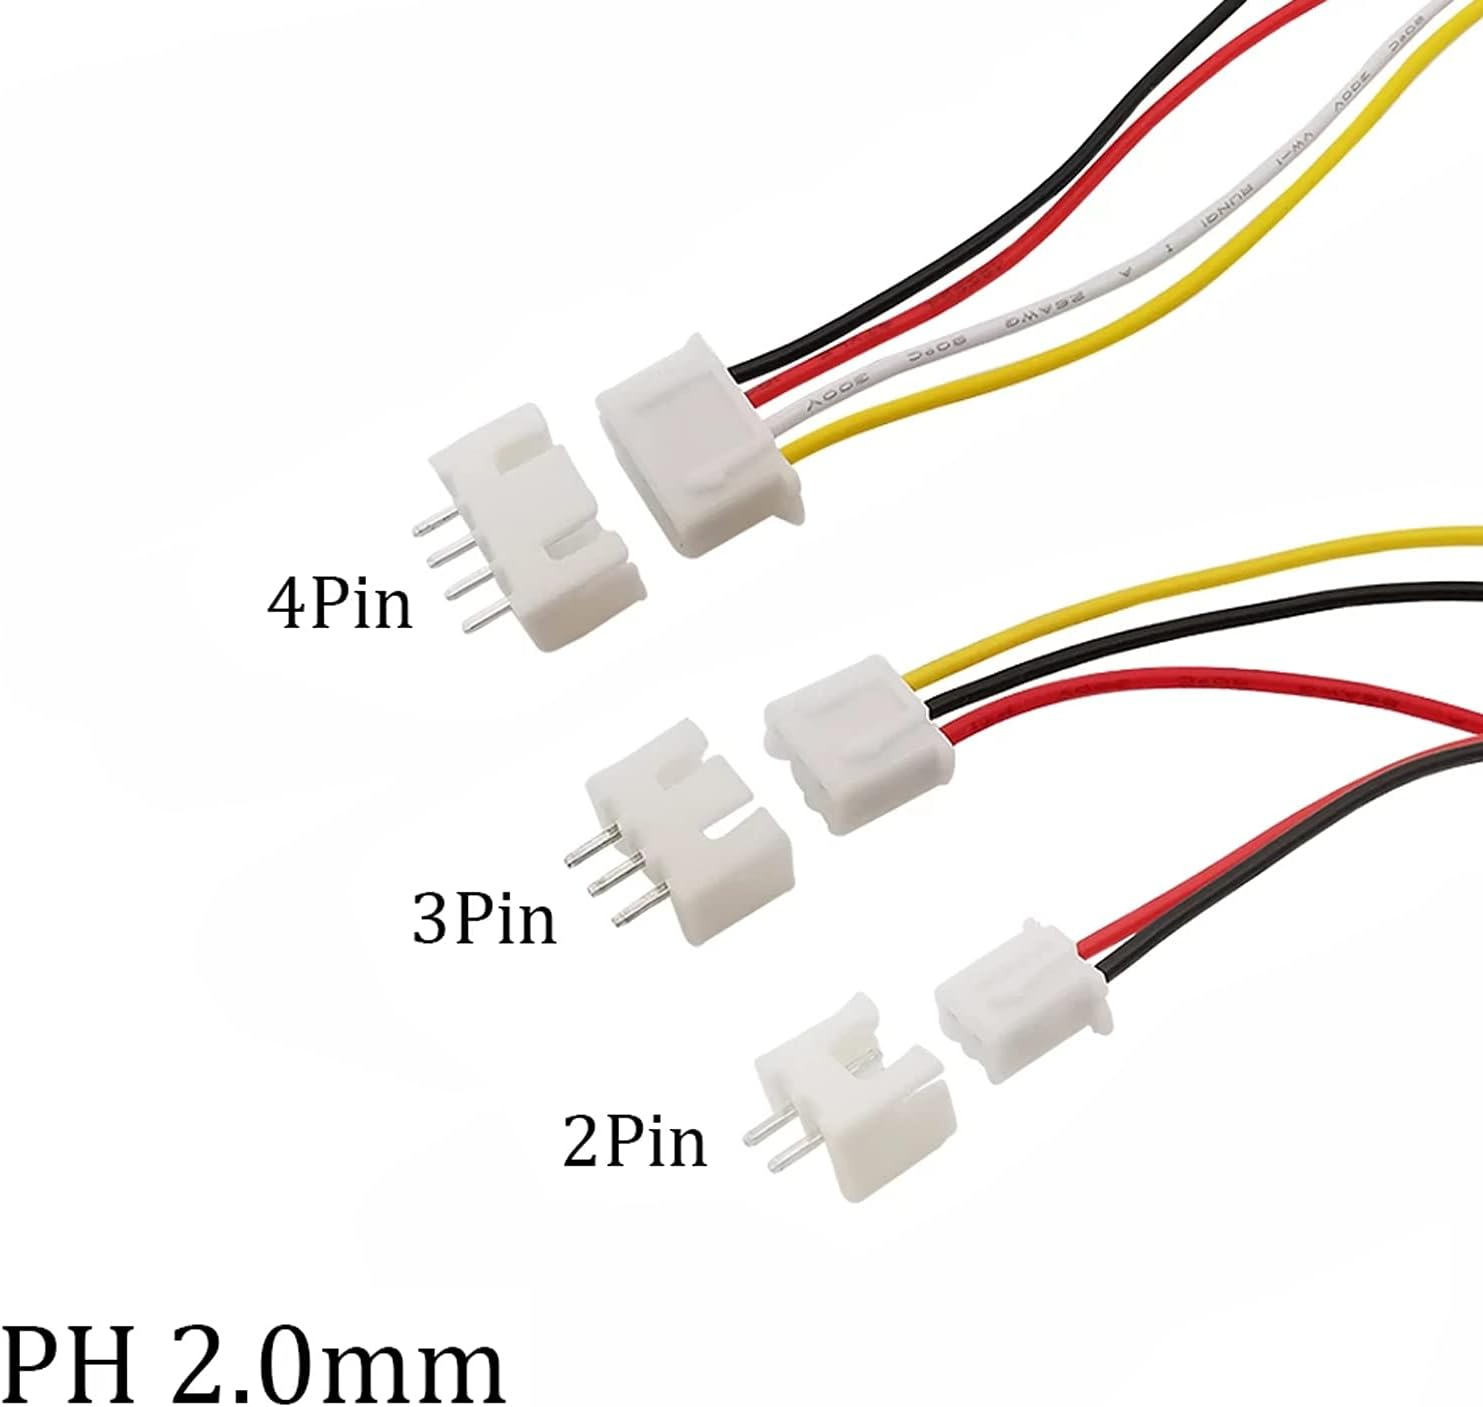
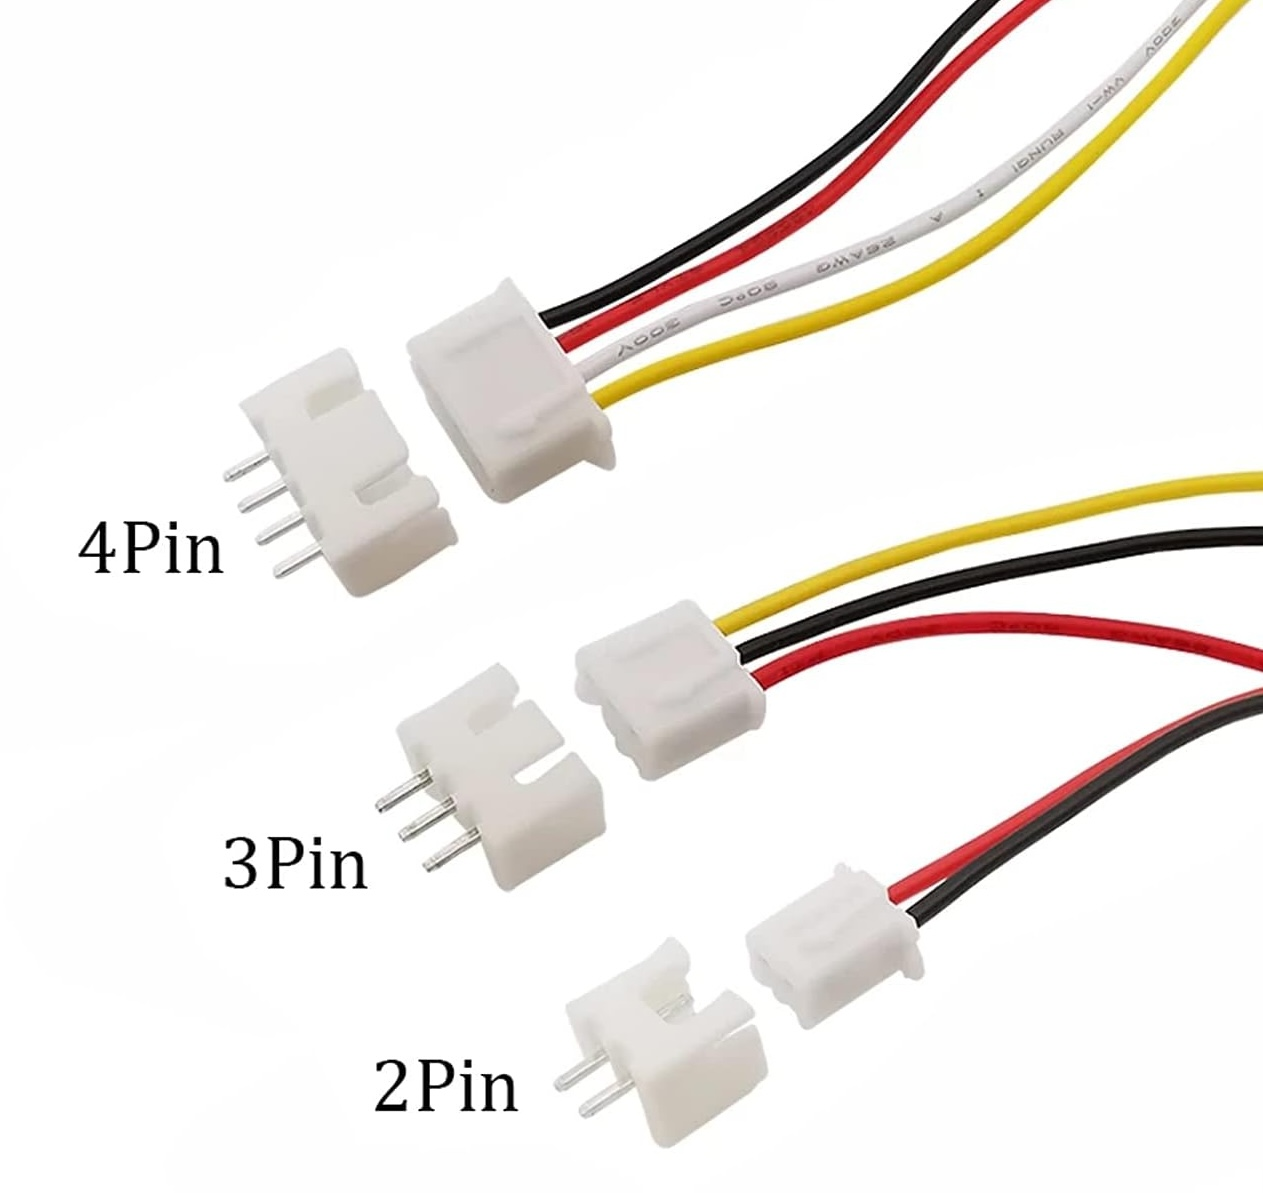
added heaps of images.

Changed region(s): [[0.0, 0.3722, 1.0, 1.0], [0.0618, 0.0, 1.0, 0.4962], [0.1853, 0.6823, 0.3088, 0.7443]]

diff --git a/_sass/custom/setup.scss b/_sass/custom/setup.scss
@@ -2,7 +2,7 @@ $link-color: #0d6efd;
 
 .img-right {
   float: right;
-  width: 300px;
+  width: 250px;
   margin-left: 1rem;
   margin-bottom: 1rem;
 
@@ -13,7 +13,7 @@ $link-color: #0d6efd;
   }
 }
 
-h1, h2, h3
+h1, h2
 {
   clear: both;
 }

diff --git a/docs/hardware/sensors-and-actuators.md b/docs/hardware/sensors-and-actuators.md
@@ -15,6 +15,8 @@ Brineomatic uses JST-PH 2.0 connectors for many of its connectors.  It is very h
 
 ## Pressure Sensors
 
+<img src="/assets/pressure sensor.jpg" class="img-right">
+
 Brineomatic supports standard 4–20 mA analog pressure sensors for monitoring filter inlet and membrane pressure.  These sensors are powered by the same voltage that powers the board (12v/24v).
 
 Typically you will want a 0-1000psi sensor for the high pressure side, and a 0-50psi sensor for the low pressure side.
@@ -25,6 +27,8 @@ Typically you will want a 0-1000psi sensor for the high pressure side, and a 0-5
 
 ## TDS / Salinity Sensors
 
+<img src="/assets/tds sensor.jpg.webp" class="img-right">
+
 TDS (Total Dissolved Solids) sensor inputs are provided for measuring product water and brine salinity.  The inputs are designed to interface with the DFRobot TDS Sensor boards.
 
 ### Verified Suppliers
@@ -32,6 +36,8 @@ TDS (Total Dissolved Solids) sensor inputs are provided for measuring product wa
 * [DFRobot](https://wiki.dfrobot.com/sen0244)
 
 ## Flow Meters (Pulse)
+
+<img src="/assets/flow sensor.jpg" class="img-right">
 
 Pulse-type flow meter inputs are supported for measuring product and brine flow rates.  These flowmeters should accept 5v power and have an open collector output.  This is the most common type.
 
@@ -41,6 +47,8 @@ Pulse-type flow meter inputs are supported for measuring product and brine flow 
 * [Omega BV2000TRN075B](https://www.dwyeromega.com/) - These parts are hard to get and expensive.
 
 ## Temperature Sensors (DS18B20)
+
+<img src="/assets/ds18b20.jpg" class="img-right">
 
 DS18B20 digital temperature sensor inputs are available for monitoring motor and water temperature.
 
@@ -54,6 +62,8 @@ Motor Temperature is used to control a fan output, and Water Temperature is used
 
 ## Relays / Solenoids / Fans
 
+<img src="/assets/solenoid valve.jpg" class="img-right">
+
 Brineomatic provides relay/solenoid driver outputs (3A max each) for controlling solenoid valves and other loads.  Loads will be powered with the same voltage supplying the board (12v/24v)
 
 You can power low-power things like relays, contactors, fans, and solenoid valves directly.  Larger loads like big AC or DC motors will require using a relay or contactor wired to the Brineomatic relay channel.
@@ -64,11 +74,15 @@ You can power low-power things like relays, contactors, fans, and solenoid valve
 
 ## Stepper Motor
 
+<img src="/assets/stepper motor.jpg" class="img-right">
+
 An onboard stepper motor driver is available for controlling the high pressure valve.  The ideal stepper motor is a 0.5A to 1.5A, NEMA17 motor.  These are readily available on Amazon, etc.
 
 * [Amazon](https://www.amazon.com/dp/B0B93L4H57) - NEMA 17 Motor / 1.2A
 
 ## DC Servos
+
+<img src="/assets/HS-422-Servo.png" class="img-right">
 
 5V servo connectors are provided for standard RC-style servo actuators to open and control valves.  Brineomatic has a maximum 3A output, so using a servo motor that is too large may cause the board to brown-out and reset.  Most hobbyist size servos will be compatible.
 
@@ -78,4 +92,10 @@ An onboard stepper motor driver is available for controlling the high pressure v
 
 ## VFD / RS485
 
-RS485 Modbus support allows control of Variable Frequency Drive (VFD) pump controllers such as the [INVT GD20](https://www.invt.com/products/gd20-series-vfd-14)
+<img src="/assets/vfd gd20.jpg" class="img-right">
+
+RS485 Modbus support allows control of high pressure motors with Variable Frequency Drive (VFD) controllers.
+
+### Verified Suppliers
+
+[INVT GD20](https://www.invt.com/products/gd20-series-vfd-14)
